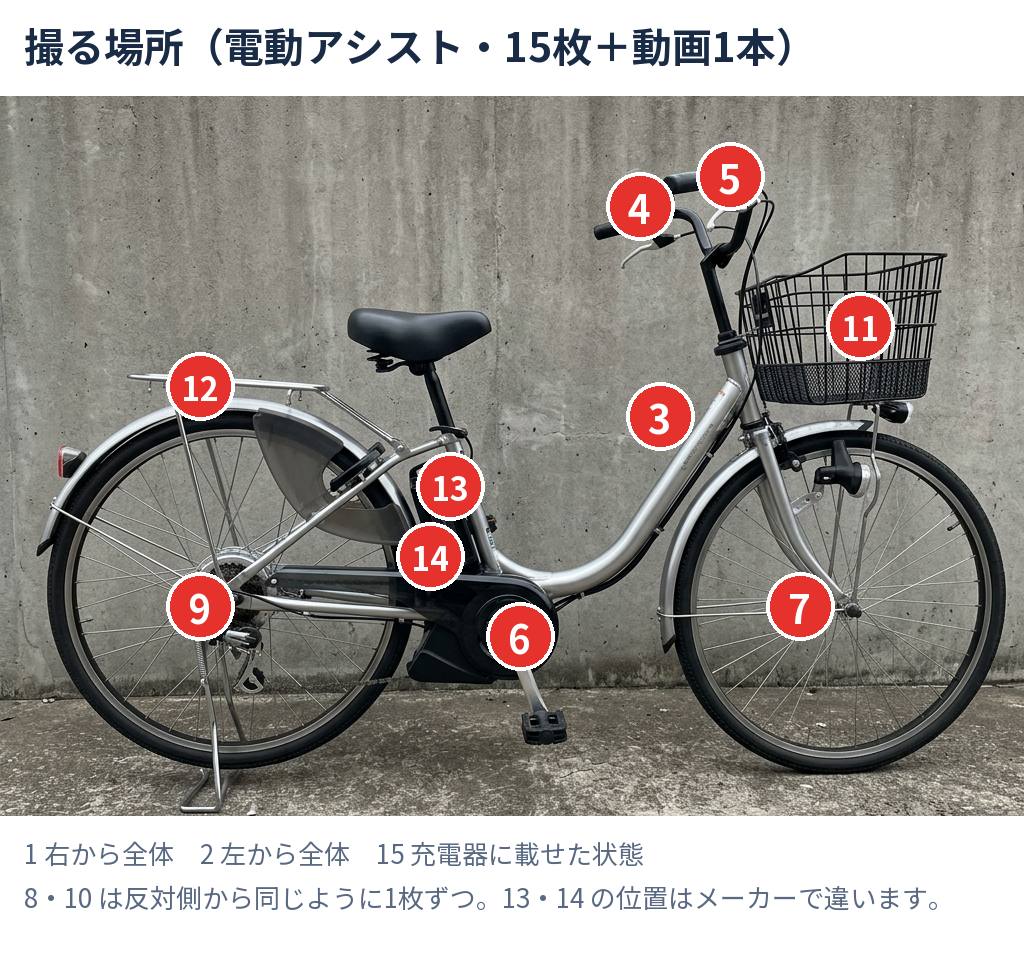
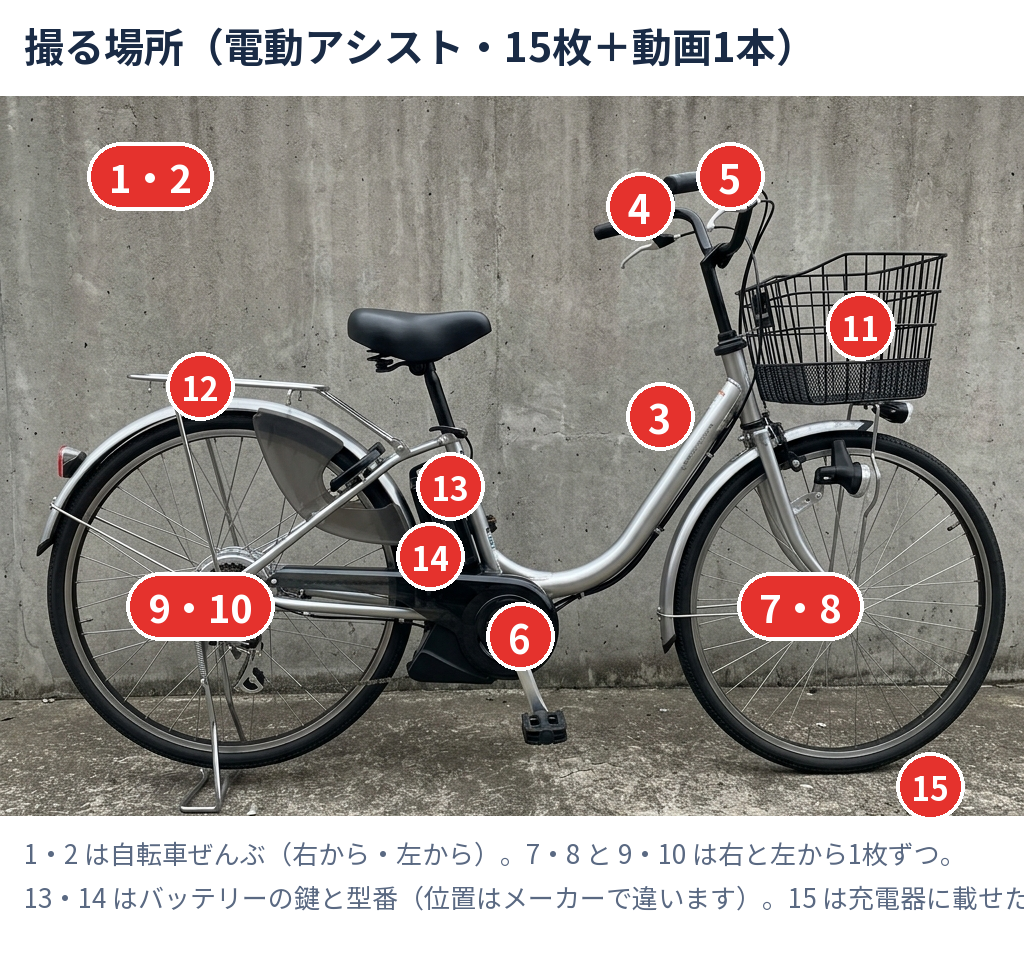
写真査定: 撮る場所の図に全部の番号を載せる（1・2 全体、6・7／8・9 は同じ車輪に並べて表示、15 充電器）。番号が飛んで見える指摘への対応

diff --git a/docs/mihon/make-map.py b/docs/mihon/make-map.py
@@ -18,12 +18,12 @@ TOP, BOTTOM = 96, 150
 CROP = (0, 150, 1024, 870)   # 全体写真の上下（壁と床）を少し詰める
 
 # 番号 → 写真上の位置（1024px 座標）。全体（右から／左から）と、反対側・充電器は写真に置けないので下の注記に
-NORMAL_POS = {3: (700, 470), 4: (650, 250), 5: (485, 680), 6: (800, 690), 8: (240, 690), 10: (800, 380), 11: (230, 440)}
-NORMAL_NOTE = ['1 右から全体　2 左から全体（自転車がぜんぶ入るように）',
-               '7・9 は反対側から同じように1枚ずつ。前カゴ・荷台は付いていれば。']
-EBIKE_POS = {3: (660, 470), 4: (640, 260), 5: (730, 230), 6: (520, 690), 7: (800, 660), 9: (200, 660), 11: (860, 380), 12: (200, 440), 13: (450, 540), 14: (430, 610)}
-EBIKE_NOTE = ['1 右から全体　2 左から全体　15 充電器に載せた状態',
-              '8・10 は反対側から同じように1枚ずつ。13・14 の位置はメーカーで違います。']
+NORMAL_POS = {'1・2': (150, 230), '3': (700, 470), '4': (650, 250), '5': (485, 680), '6・7': (800, 690), '8・9': (240, 690), '10': (800, 380), '11': (230, 440)}
+NORMAL_NOTE = ['1・2 は自転車ぜんぶ（右から・左から）。6・7 と 8・9 は右と左から1枚ずつ。',
+               '10・11 の前カゴ・荷台は、付いていれば。']
+EBIKE_POS = {'1・2': (150, 230), '3': (660, 470), '4': (640, 260), '5': (730, 230), '6': (520, 690), '7・8': (800, 660), '9・10': (200, 660), '11': (860, 380), '12': (200, 440), '13': (450, 540), '14': (430, 610), '15': (930, 840)}
+EBIKE_NOTE = ['1・2 は自転車ぜんぶ（右から・左から）。7・8 と 9・10 は右と左から1枚ずつ。',
+              '13・14 はバッテリーの鍵と型番（位置はメーカーで違います）。15 は充電器に載せた状態。']
 
 
 def photo_map(src_dir, src_id, pos, title, notes):
@@ -36,7 +36,13 @@ def photo_map(src_dir, src_id, pos, title, notes):
     im.paste(photo, (0, TOP))
     d = ImageDraw.Draw(im)
     for n, (x, y) in pos.items():
-        mm.badge(d, x - CROP[0], y - CROP[1] + TOP, n, r=34)
+        cx, cy = x - CROP[0], y - CROP[1] + TOP
+        if '・' in str(n):
+            f = mm.font(38); tw = d.textlength(str(n), font=f)
+            d.rounded_rectangle([cx - tw / 2 - 22, cy - 34, cx + tw / 2 + 22, cy + 34], radius=34, fill=mm.RED, outline=(255, 255, 255), width=4)
+            d.text((cx, cy + 2), str(n), font=f, fill=(255, 255, 255), anchor='mm')
+        else:
+            mm.badge(d, cx, cy, int(n), r=34)
     d.text((24, 22), title, font=mm.font(40), fill=INK)
     for i, t in enumerate(notes):
         d.text((24, TOP + H + 22 + i * 44), t, font=mm.font(26, bold=False), fill=SUB)
